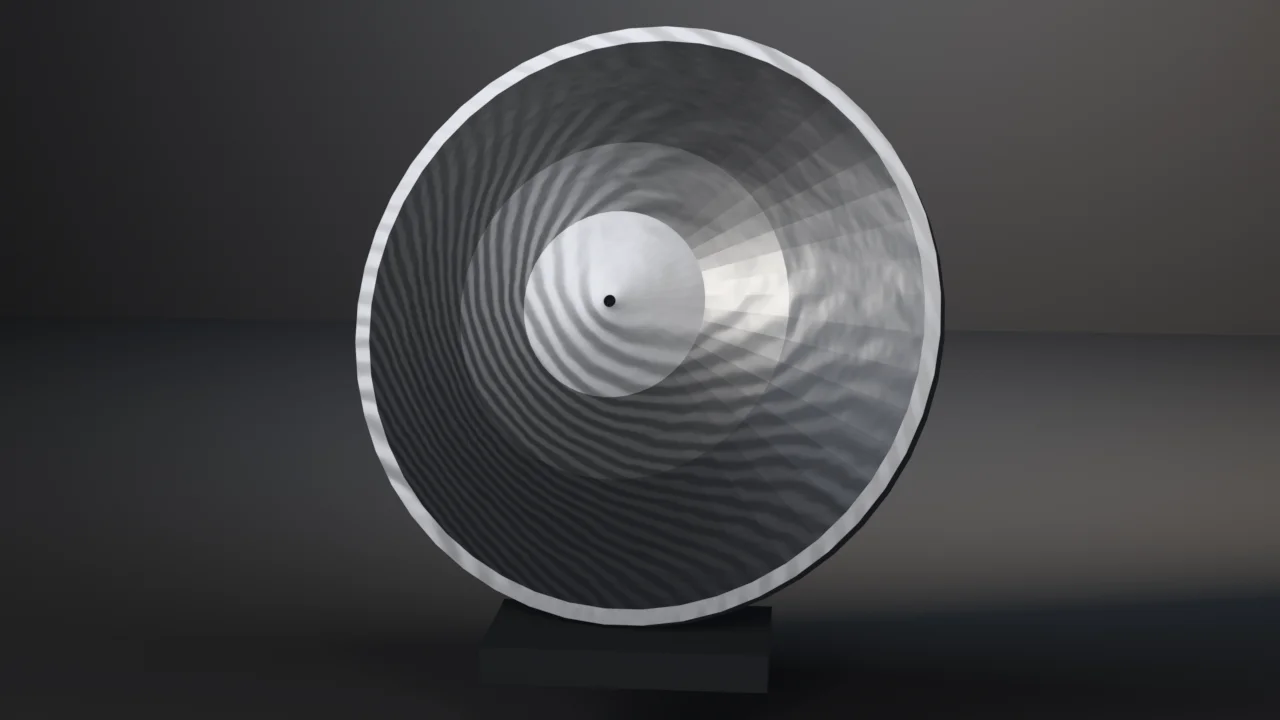
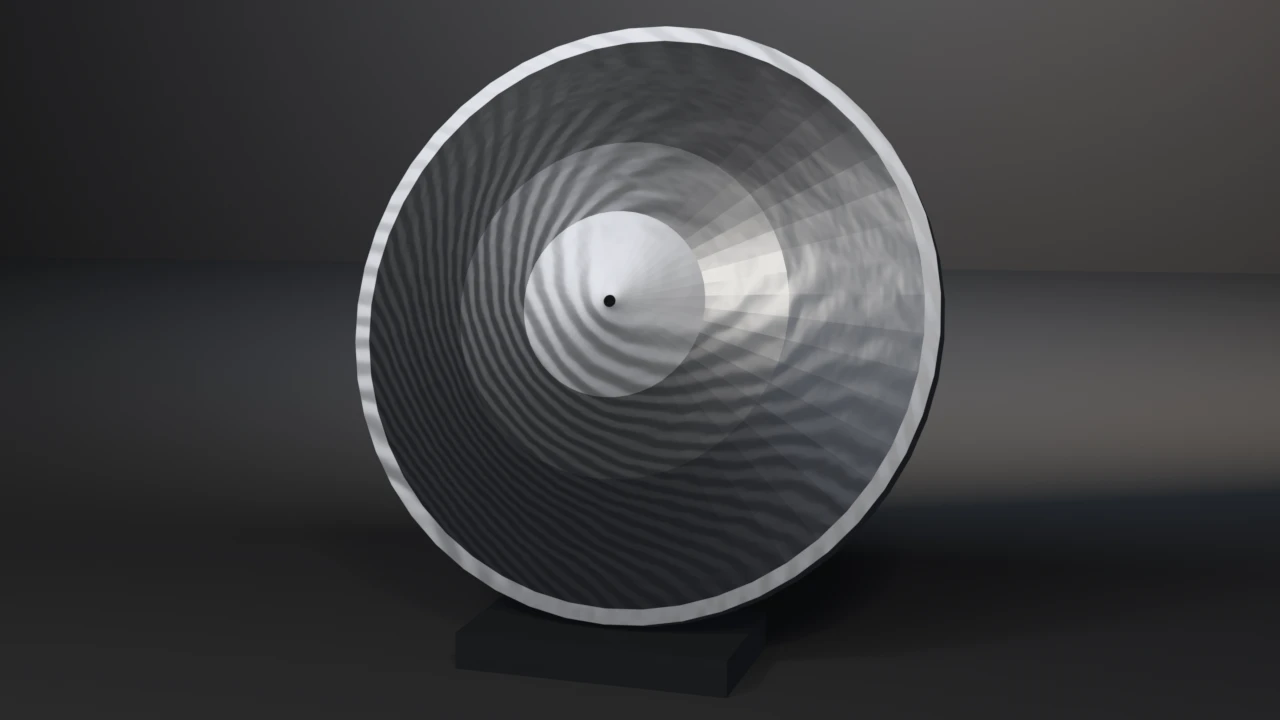
fix(examples): seat the triangulate-tangents buckler on the floor
The display stand hung 0.49 m above the floor with nothing under it, and
nothing held the buckler's 20-degree backward lean. The stand now rests on
the floor, the rim's lowest evaluated vertex bites 1 cm into its top, and a
kickstand strut runs from the buckler's back (found by a local-space ray) to
the floor. The camera and aim ride with the derived lift. Render path only;
exit codes are unchanged on 4.5.11, 5.1.2 and 5.2.1.

diff --git a/docs/gallery/triangulate-tangents/index.html b/docs/gallery/triangulate-tangents/index.html
@@ -16,13 +16,13 @@
   <meta property="og:image" content="https://tmhsdigital.github.io/Blender-Developer-Tools/gallery/assets/triangulate-tangents-hero.webp" />
   <meta property="og:image:width" content="1280" />
   <meta property="og:image:height" content="720" />
-  <meta property="og:image:alt" content="A round silver buckler on a stand, its face brushed in circular grooves with an anisotropic highlight." />
+  <meta property="og:image:alt" content="A round silver buckler leaning back on a low stand, its face brushed in circular grooves with an anisotropic highlight." />
   <meta property="og:site_name" content="Blender Developer Tools" />
   <meta name="twitter:card" content="summary_large_image" />
   <meta name="twitter:title" content="triangulate-tangents — Examples — Blender Developer Tools" />
   <meta name="twitter:description" content="A machined buckler verifying the tangent-space contract a game engine&#x27;s normal mapping depends on. Deterministic triangulation, unit orthogonal tangent frames, and the edge/UV-delta formula matching mikktspace within welding tolerance." />
   <meta name="twitter:image" content="https://tmhsdigital.github.io/Blender-Developer-Tools/gallery/assets/triangulate-tangents-hero.webp" />
-  <meta name="twitter:image:alt" content="A round silver buckler on a stand, its face brushed in circular grooves with an anisotropic highlight." />
+  <meta name="twitter:image:alt" content="A round silver buckler leaning back on a low stand, its face brushed in circular grooves with an anisotropic highlight." />
   <style>
     /* fonts are deployed by the landing build (docs/fonts/) */
     @font-face { font-family: 'Barlow Condensed'; font-weight: 600; font-display: swap;
@@ -268,8 +268,8 @@
     <p>A machined buckler verifying the tangent-space contract a game engine&#x27;s normal mapping depends on. Deterministic triangulation, unit orthogonal tangent frames, and the edge/UV-delta formula matching mikktspace within welding tolerance.</p>
   </header>
   <main id="main">
-    <button class="detail-hero" id="heroZoom" type="button" aria-label="View full size: A round silver buckler on a stand, its face brushed in circular grooves with an anisotropic highlight.">
-      <img src="../assets/triangulate-tangents-hero.webp" alt="A round silver buckler on a stand, its face brushed in circular grooves with an anisotropic highlight." width="1280" height="720" />
+    <button class="detail-hero" id="heroZoom" type="button" aria-label="View full size: A round silver buckler leaning back on a low stand, its face brushed in circular grooves with an anisotropic highlight.">
+      <img src="../assets/triangulate-tangents-hero.webp" alt="A round silver buckler leaning back on a low stand, its face brushed in circular grooves with an anisotropic highlight." width="1280" height="720" />
     </button>
     <p class="zoom-hint">Rendered headless by the example itself — click to zoom.</p>
     <div class="callout"><span class="tag">witnesses</span> calc_tangents aborts on any ngon; planar UVs on a cylindrical wall collapse tangents onto normals; a MeshUVLoopLayer handle held across calc_tangents dangles on 4.5 (471 phantom flips, silent exit 0) while the mikktspace math is byte-identical on both versions.</div>
@@ -284,7 +284,7 @@
 <ul><li><strong>Deterministic triangulation and the engine basis.</strong> <code>calc_loop_triangles</code> yields the closed-form count (two tris per quad + the cap fan, 720), and every loop tangent is unit length (err 1.3e-07) and exactly orthogonal to its loop normal (err 6.0e-08), with the bitangent exactly <code>bitangent_sign * (normal x tangent)</code> (err 0.0). One ngon anywhere in the mesh and <code>calc_tangents</code> <strong>aborts the whole call</strong> — the back cap is an explicit fan for exactly that reason.</li><li><strong>The tangent frame follows the UVs.</strong> On smooth-field triangles the per-loop tangents match the independently derived edge/UV-delta formula within mikktspace&#x27;s vertex-welding tolerance (measured 2.3e-06, tol 0.15); a flipped frame inside a smooth field is never legal (0 measured). At UV seams the frame orientation is implementation-defined — 42 seam flips, 9 at chart seams, identical on both versions — and planar UVs on a cylindrical wall are degenerate: they collapse the tangent onto the normal (dot 0.998, measured and fixed by unwrapping strips).</li><li><strong>The reference-lifetime hazard (the real divergence).</strong> A <code>MeshUVLoopLayer</code> handle held across <code>calc_tangents()</code> dangles: on Blender 4.5 reads through it return tangent floats, not UVs — measured while authoring as a phantom <strong>471 flipped frames and 385 phantom seam positions, exit 0, a silent wrong answer</strong>. On 5.1 the same stale read survives by memory-layout luck. The mikktspace math itself is byte-identical on 4.5.11 and 5.1.2; the apparent version divergence was entirely the corrupt handle. Never hold layer handles across CustomData-reallocating calls — re-fetch by name.</li></ul>
 <p><strong>What each check catches on failure:</strong> a remeshed asset breaking the triangulation count (probe: dropped profile ring, exit 3, 624 vs 720); a wrong tangent formula in the independent derivation (probe: swapped du/dv, exit 7, weld 1.459); and the stale-handle read (probe: no re-fetch — corrupt measurements on 4.5, correct values on 5.1 by luck).</p>
 <p><strong>Version witness:</strong> mikktspace output is identical on Blender 4.5.11 LTS and 5.1.2 (same weld deviations, same seam flips). The <code>calc_tangents(uvmap=)</code> signature is stable. The lifetime hazard above is the only behavioral split, and it corrupts measurements rather than raising.</p>
-<p>The render shows the buckler on its cradle: brushed grooves circulating the boss with the anisotropic sweep riding them — the circulating tangent field made visible.</p>
+<p>The render shows the buckler on its cradle: brushed grooves circulating the boss with the anisotropic sweep riding them — the circulating tangent field made visible. The staging is derived from the posed mesh: the stand rests on the floor, the rim&#x27;s lowest vertex sits 1 cm into its top, and a kickstand strut runs from the buckler&#x27;s back (found by a local-space ray) to the floor behind it.</p>
 <h2>Run</h2>
 <pre><code># Cheap correctness check (no render) — the CI check:
 blender --background --python triangulate_tangents.py --
@@ -358,6 +358,13 @@ DOT_TOL = <span class="n">1e-4</span>                  <span class="c"># |t . n|
 WELD_TOL = <span class="n">0.15</span>                 <span class="c"># mikktspace vertex welding vs per-triangle formula</span>
 BTN_TOL = <span class="n">1e-4</span>                  <span class="c"># bitangent == sign * (n x t)</span>
 UV_TOL = <span class="n">1e-6</span>                   <span class="c"># re-fetched UV layer vs authored closed form</span>
+
+<span class="c"># render staging only (not part of the check)</span>
+STAND_H = <span class="n">0.12</span>                  <span class="c"># display stand height, resting on the floor</span>
+SEAT_BITE = <span class="n">0.01</span>                <span class="c"># rim&#x27;s lowest vertex sunk into the stand top</span>
+STRUT_V = <span class="n">0.25</span>                  <span class="c"># local v where the kickstand meets the back</span>
+STRUT_BITE = <span class="n">0.02</span>               <span class="c"># strut ends buried in the back face / floor</span>
+STRUT_LEAN = <span class="n">0.45</span>               <span class="c"># horizontal run per metre of strut height</span>
 
 <span class="c"># dome profile: (r, z) rings from center out, then the raised rim lip</span>
 PROFILE = [(<span class="n">0.02</span>, <span class="n">0.34</span>), (<span class="n">0.30</span>, <span class="n">0.30</span>), (<span class="n">0.55</span>, <span class="n">0.22</span>), (<span class="n">0.78</span>, <span class="n">0.12</span>),
@@ -620,28 +627,56 @@ PROFILE = [(<span class="n">0.02</span>, <span class="n">0.34</span>), (<span cl
     nt.links.new(bump.outputs[<span class="s">&quot;Normal&quot;</span>], bsdf.inputs[<span class="s">&quot;Normal&quot;</span>])
     obj.data.materials.append(mat)
 
-    <span class="c"># presentation: the buckler leaning back on a low display stand</span>
-    obj.location = (<span class="n">0.0</span>, <span class="n">0.0</span>, <span class="n">1.55</span>)
-    obj.rotation_euler = (math.radians(<span class="n">70</span>), <span class="n">0.0</span>, math.radians(-<span class="n">12</span>))
-    stand_me = bpy.data.meshes.new(<span class="s">&quot;Stand&quot;</span>)
-    bm = bmesh.new()
-    <span class="k">try</span>:
-        bmesh.ops.create_cube(bm, size=<span class="n">1.0</span>,
-                              matrix=mathutils.Matrix.Diagonal((<span class="n">0.9</span>, <span class="n">0.5</span>, <span class="n">0.12</span>, <span class="n">1.0</span>)))
-        bm.to_mesh(stand_me)
-    <span class="k">finally</span>:
-        bm.free()
+    <span class="c"># presentation: the buckler leaning back on a low display stand, held by</span>
+    <span class="c"># a kickstand strut behind it. Every contact is derived from the posed</span>
+    <span class="c"># mesh: the stand sits on the floor, the rim&#x27;s lowest vertex bites into</span>
+    <span class="c"># the stand&#x27;s top, and the strut runs from the buckler&#x27;s back to the floor.</span>
+    yaw = math.radians(-<span class="n">12</span>)
+    obj.rotation_euler = (math.radians(<span class="n">70</span>), <span class="n">0.0</span>, yaw)
+    obj.location = (<span class="n">0.0</span>, <span class="n">0.0</span>, <span class="n">0.0</span>)
+    bpy.context.view_layer.update()
+    low = min((obj.matrix_world @ v.co <span class="k">for</span> v <span class="k">in</span> obj.data.vertices), key=<span class="k">lambda</span> p: p.z)
+    lift = STAND_H - SEAT_BITE - low.z
+    obj.location = (<span class="n">0.0</span>, <span class="n">0.0</span>, lift)
+    bpy.context.view_layer.update()
+    mw = obj.matrix_world
+    low.z += lift
+
     smat = bpy.data.materials.new(<span class="s">&quot;StandMetal&quot;</span>)
     smat.use_nodes = <span class="k">True</span>
     sb = smat.node_tree.nodes[<span class="s">&quot;Principled BSDF&quot;</span>]
     sb.inputs[<span class="s">&quot;Base Color&quot;</span>].default_value = (<span class="n">0.09</span>, <span class="n">0.10</span>, <span class="n">0.12</span>, <span class="n">1.0</span>)
     sb.inputs[<span class="s">&quot;Metallic&quot;</span>].default_value = <span class="n">0.85</span>
     sb.inputs[<span class="s">&quot;Roughness&quot;</span>].default_value = <span class="n">0.45</span>
-    stand_me.materials.append(smat)
-    stand = bpy.data.objects.new(<span class="s">&quot;Stand&quot;</span>, stand_me)
-    <span class="c"># under the leaning rim&#x27;s contact patch, so the cradle visibly carries it</span>
-    stand.location = (<span class="n">0.0</span>, -<span class="n">0.34</span>, <span class="n">0.55</span>)
-    scene.collection.objects.link(stand)
+
+    <span class="k">def</span> box(name, dims, loc, rot):
+        me = bpy.data.meshes.new(name)
+        bm = bmesh.new()
+        <span class="k">try</span>:
+            bmesh.ops.create_cube(bm, size=<span class="n">1.0</span>,
+                                  matrix=mathutils.Matrix.Diagonal((*dims, <span class="n">1.0</span>)))
+            bm.to_mesh(me)
+        <span class="k">finally</span>:
+            bm.free()
+        me.materials.append(smat)
+        ob = bpy.data.objects.new(name, me)
+        ob.location = loc
+        ob.rotation_euler = rot
+        scene.collection.objects.link(ob)
+        <span class="k">return</span> ob
+
+    <span class="c"># the stand: on the floor, centred under the rim&#x27;s contact vertex</span>
+    box(<span class="s">&quot;Stand&quot;</span>, (<span class="n">0.9</span>, <span class="n">0.5</span>, STAND_H), (low.x, low.y, STAND_H / <span class="n">2</span>), (<span class="n">0.0</span>, <span class="n">0.0</span>, yaw))
+    <span class="c"># the strut: its top buried in the buckler&#x27;s back face (found by a</span>
+    <span class="c"># local-space ray), its foot bitten into the floor behind</span>
+    hit = obj.ray_cast((<span class="n">0.0</span>, STRUT_V, -<span class="n">1.0</span>), (<span class="n">0.0</span>, <span class="n">0.0</span>, <span class="n">1.0</span>))[<span class="n">1</span>]
+    back_n = (mw.to_3x3() @ mathutils.Vector((<span class="n">0.0</span>, <span class="n">0.0</span>, -<span class="n">1.0</span>))).normalized()
+    top = mw @ hit - back_n * STRUT_BITE
+    out = mathutils.Vector((back_n.x, back_n.y, <span class="n">0.0</span>)).normalized()
+    foot = mathutils.Vector((top.x, top.y, -STRUT_BITE)) + out * top.z * STRUT_LEAN
+    axis = top - foot
+    box(<span class="s">&quot;Strut&quot;</span>, (<span class="n">0.08</span>, <span class="n">0.04</span>, axis.length), (top + foot) / <span class="n">2</span>,
+        axis.to_track_quat(<span class="s">&#x27;Z&#x27;</span>, <span class="s">&#x27;Y&#x27;</span>).to_euler())
 
     floor_me = bpy.data.meshes.new(<span class="s">&quot;Floor&quot;</span>)
     bm = bmesh.new()
@@ -690,10 +725,12 @@ PROFILE = [(<span class="n">0.02</span>, <span class="n">0.34</span>), (<span cl
     <span class="c"># Reframed: the old (0.6,-8.8,2.8) left the buckler at 0.334 fill adrift</span>
     <span class="c"># in the stage; moved in ~2.2x so the brushed-steel tangent sweep fills</span>
     <span class="c"># the frame — the grooves are the tangent-field evidence.</span>
-    cam.location = (<span class="n">0.6</span>, -<span class="n">6.35</span>, <span class="n">2.62</span>)
+    <span class="c"># Seated on the floor (was hung 0.49 m up): camera and aim ride with the</span>
+    <span class="c"># buckler&#x27;s derived lift, so the composition is unchanged.</span>
+    cam.location = (<span class="n">0.6</span>, -<span class="n">6.35</span>, lift + <span class="n">1.07</span>)
     scene.collection.objects.link(cam)
     target = bpy.data.objects.new(<span class="s">&quot;Aim&quot;</span>, <span class="k">None</span>)
-    target.location = (<span class="n">0.0</span>, <span class="n">0.0</span>, <span class="n">1.42</span>)
+    target.location = (<span class="n">0.0</span>, <span class="n">0.0</span>, lift - <span class="n">0.13</span>)
     scene.collection.objects.link(target)
     con = cam.constraints.new(<span class="s">&#x27;TRACK_TO&#x27;</span>)
     con.target = target
@@ -715,11 +752,11 @@ PROFILE = [(<span class="n">0.02</span>, <span class="n">0.34</span>), (<span cl
     scene.view_settings.view_transform = <span class="s">&#x27;Standard&#x27;</span>
     <span class="c"># Layer 1 framing gate (silhouette matte) — exit 10 on violation, before</span>
     <span class="c"># the beauty render so a defective composition ships no artifact.</span>
-    stand_ob = scene.objects.get(<span class="s">&quot;Stand&quot;</span>)
+    props = [scene.objects[n] <span class="k">for</span> n <span class="k">in</span> (<span class="s">&quot;Stand&quot;</span>, <span class="s">&quot;Strut&quot;</span>)]
     fcode = gallery_framing.check_framing(
         scene, cam,
         hero=[obj],
-        elements=[obj] + ([stand_ob] <span class="k">if</span> stand_ob <span class="k">else</span> []),
+        elements=[obj] + props,
         stage=[floor, wall],
     )
     <span class="k">if</span> fcode:
@@ -771,7 +808,7 @@ PROFILE = [(<span class="n">0.02</span>, <span class="n">0.34</span>), (<span cl
   </main>
   <dialog class="lightbox" id="lightbox" aria-label="Full-size render">
     <button class="lightbox-close" type="button" autofocus>Close</button>
-    <img src="../assets/triangulate-tangents-hero.webp" alt="A round silver buckler on a stand, its face brushed in circular grooves with an anisotropic highlight." />
+    <img src="../assets/triangulate-tangents-hero.webp" alt="A round silver buckler leaning back on a low stand, its face brushed in circular grooves with an anisotropic highlight." />
   </dialog>
   <footer>
     <div class="statusbar">

diff --git a/examples/triangulate-tangents/triangulate_tangents.py b/examples/triangulate-tangents/triangulate_tangents.py
@@ -51,6 +51,13 @@ WELD_TOL = 0.15                 # mikktspace vertex welding vs per-triangle form
 BTN_TOL = 1e-4                  # bitangent == sign * (n x t)
 UV_TOL = 1e-6                   # re-fetched UV layer vs authored closed form
 
+# render staging only (not part of the check)
+STAND_H = 0.12                  # display stand height, resting on the floor
+SEAT_BITE = 0.01                # rim's lowest vertex sunk into the stand top
+STRUT_V = 0.25                  # local v where the kickstand meets the back
+STRUT_BITE = 0.02               # strut ends buried in the back face / floor
+STRUT_LEAN = 0.45               # horizontal run per metre of strut height
+
 # dome profile: (r, z) rings from center out, then the raised rim lip
 PROFILE = [(0.02, 0.34), (0.30, 0.30), (0.55, 0.22), (0.78, 0.12),
            (0.95, 0.05), (1.00, 0.05)]
@@ -312,28 +319,56 @@ def render_still(obj, path, engine):
     nt.links.new(bump.outputs["Normal"], bsdf.inputs["Normal"])
     obj.data.materials.append(mat)
 
-    # presentation: the buckler leaning back on a low display stand
-    obj.location = (0.0, 0.0, 1.55)
-    obj.rotation_euler = (math.radians(70), 0.0, math.radians(-12))
-    stand_me = bpy.data.meshes.new("Stand")
-    bm = bmesh.new()
-    try:
-        bmesh.ops.create_cube(bm, size=1.0,
-                              matrix=mathutils.Matrix.Diagonal((0.9, 0.5, 0.12, 1.0)))
-        bm.to_mesh(stand_me)
-    finally:
-        bm.free()
+    # presentation: the buckler leaning back on a low display stand, held by
+    # a kickstand strut behind it. Every contact is derived from the posed
+    # mesh: the stand sits on the floor, the rim's lowest vertex bites into
+    # the stand's top, and the strut runs from the buckler's back to the floor.
+    yaw = math.radians(-12)
+    obj.rotation_euler = (math.radians(70), 0.0, yaw)
+    obj.location = (0.0, 0.0, 0.0)
+    bpy.context.view_layer.update()
+    low = min((obj.matrix_world @ v.co for v in obj.data.vertices), key=lambda p: p.z)
+    lift = STAND_H - SEAT_BITE - low.z
+    obj.location = (0.0, 0.0, lift)
+    bpy.context.view_layer.update()
+    mw = obj.matrix_world
+    low.z += lift
+
     smat = bpy.data.materials.new("StandMetal")
     smat.use_nodes = True
     sb = smat.node_tree.nodes["Principled BSDF"]
     sb.inputs["Base Color"].default_value = (0.09, 0.10, 0.12, 1.0)
     sb.inputs["Metallic"].default_value = 0.85
     sb.inputs["Roughness"].default_value = 0.45
-    stand_me.materials.append(smat)
-    stand = bpy.data.objects.new("Stand", stand_me)
-    # under the leaning rim's contact patch, so the cradle visibly carries it
-    stand.location = (0.0, -0.34, 0.55)
-    scene.collection.objects.link(stand)
+
+    def box(name, dims, loc, rot):
+        me = bpy.data.meshes.new(name)
+        bm = bmesh.new()
+        try:
+            bmesh.ops.create_cube(bm, size=1.0,
+                                  matrix=mathutils.Matrix.Diagonal((*dims, 1.0)))
+            bm.to_mesh(me)
+        finally:
+            bm.free()
+        me.materials.append(smat)
+        ob = bpy.data.objects.new(name, me)
+        ob.location = loc
+        ob.rotation_euler = rot
+        scene.collection.objects.link(ob)
+        return ob
+
+    # the stand: on the floor, centred under the rim's contact vertex
+    box("Stand", (0.9, 0.5, STAND_H), (low.x, low.y, STAND_H / 2), (0.0, 0.0, yaw))
+    # the strut: its top buried in the buckler's back face (found by a
+    # local-space ray), its foot bitten into the floor behind
+    hit = obj.ray_cast((0.0, STRUT_V, -1.0), (0.0, 0.0, 1.0))[1]
+    back_n = (mw.to_3x3() @ mathutils.Vector((0.0, 0.0, -1.0))).normalized()
+    top = mw @ hit - back_n * STRUT_BITE
+    out = mathutils.Vector((back_n.x, back_n.y, 0.0)).normalized()
+    foot = mathutils.Vector((top.x, top.y, -STRUT_BITE)) + out * top.z * STRUT_LEAN
+    axis = top - foot
+    box("Strut", (0.08, 0.04, axis.length), (top + foot) / 2,
+        axis.to_track_quat('Z', 'Y').to_euler())
 
     floor_me = bpy.data.meshes.new("Floor")
     bm = bmesh.new()
@@ -382,10 +417,12 @@ def render_still(obj, path, engine):
     # Reframed: the old (0.6,-8.8,2.8) left the buckler at 0.334 fill adrift
     # in the stage; moved in ~2.2x so the brushed-steel tangent sweep fills
     # the frame — the grooves are the tangent-field evidence.
-    cam.location = (0.6, -6.35, 2.62)
+    # Seated on the floor (was hung 0.49 m up): camera and aim ride with the
+    # buckler's derived lift, so the composition is unchanged.
+    cam.location = (0.6, -6.35, lift + 1.07)
     scene.collection.objects.link(cam)
     target = bpy.data.objects.new("Aim", None)
-    target.location = (0.0, 0.0, 1.42)
+    target.location = (0.0, 0.0, lift - 0.13)
     scene.collection.objects.link(target)
     con = cam.constraints.new('TRACK_TO')
     con.target = target
@@ -407,11 +444,11 @@ def render_still(obj, path, engine):
     scene.view_settings.view_transform = 'Standard'
     # Layer 1 framing gate (silhouette matte) — exit 10 on violation, before
     # the beauty render so a defective composition ships no artifact.
-    stand_ob = scene.objects.get("Stand")
+    props = [scene.objects[n] for n in ("Stand", "Strut")]
     fcode = gallery_framing.check_framing(
         scene, cam,
         hero=[obj],
-        elements=[obj] + ([stand_ob] if stand_ob else []),
+        elements=[obj] + props,
         stage=[floor, wall],
     )
     if fcode:

diff --git a/examples/triangulate-tangents/README.md b/examples/triangulate-tangents/README.md
@@ -51,7 +51,10 @@ and it corrupts measurements rather than raising.
 
 The render shows the buckler on its cradle: brushed grooves circulating the
 boss with the anisotropic sweep riding them — the circulating tangent field
-made visible.
+made visible. The staging is derived from the posed mesh: the stand rests on
+the floor, the rim's lowest vertex sits 1 cm into its top, and a kickstand
+strut runs from the buckler's back (found by a local-space ray) to the floor
+behind it.
 
 ## Run
 
